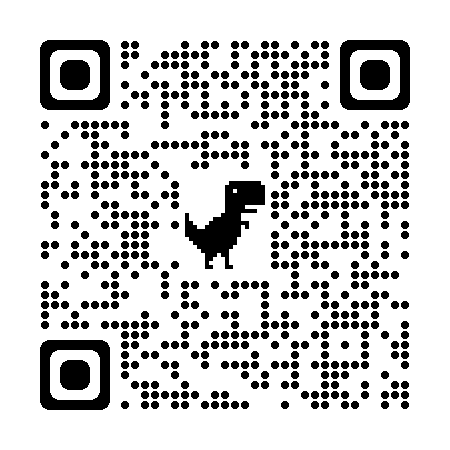
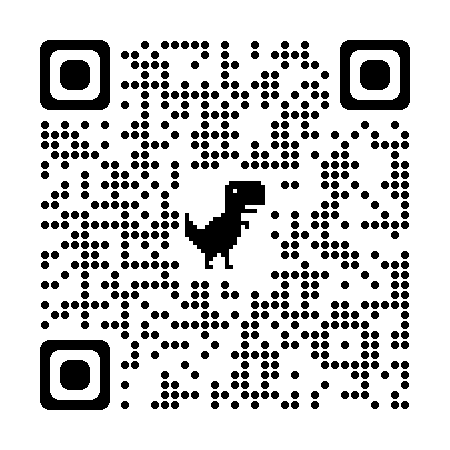
Atualizando o site

diff --git a/index.html b/index.html
@@ -101,13 +101,14 @@
     </section>
     <!-- Wireframe -->
     <section id="wireframe">
-      <div class="container">
+      <div class="container Flex2">
         <div id="textoWire">
             <h2>Wireframe</h2>
-        </div>
-        <div id="qrcode">
             <p>Um wireframe de um site é um esboço visual básico que representa a estrutura e o layout de uma página da web. É uma representação simplificada e sem detalhes gráficos, que destaca principalmente a disposição dos elementos principais da página, como menus, blocos de conteúdo, imagens e espaços em branco. Para obter um PDF sobre Wireframe clique no botão <span>ou escaneie o QRCode.</span></p>
-            <a href="wireframe.pdf" target="_blank">PDF</a>
+            <a href="wireframe.pdf" target="_blank" class="Botao">PDF</a>
+        </div>
+        <div id="qrcode">           
+            <img src="img/qrcode.png" alt="qrcode">
         </div>        
       </div>
     </section>

diff --git a/style.css b/style.css
@@ -128,6 +128,21 @@ main h2{ font-size: 1em;
         width: 340px;
         height: 191px;
    }
+   /*Wireframe*/
+   #wireframe{
+    padding: 50px 0px;
+    background: url(img/background.png);
+    background-size: cover;
+    background-position: center;
+   }
+   #textoWire{
+    color: #fff;
+    padding: 0px 10px; 
+    text-shadow: #000 0.05em 0.05em 0.05em;
+   }
+   #textoWire h2{ margin-bottom: 10px;}
+   #textoWire p{ margin-bottom: 40px;}
+   #textoWire span, #qrcode{display: none;}   
  /*Smartphone Landscape*/   
 @media (min-width: 576px){
        .container{
@@ -198,5 +213,14 @@ main h2{ font-size: 1em;
         display: flex;
         flex-direction: row;
         align-items: center;
+    }
+    /*Wireframe*/
+    #wireframe{
+        background-attachment: fixed;        
+    }
+    #wireframe span, #qrcode{display: inline;}
+    #qrcode img{
+        width: 225px;
+        height: 225px;
     }
 }
